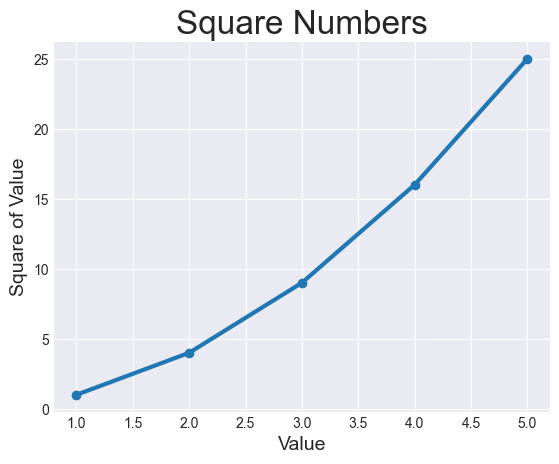
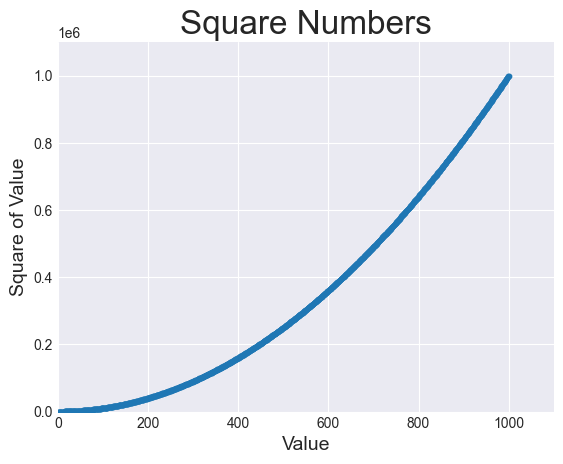
adjusting squares_plot

diff --git a/mpl_squares.py b/mpl_squares.py
@@ -1,7 +1,7 @@
 import matplotlib.pyplot as plt
 
-input_values = [1, 2, 3, 4, 5]
-squares = [1, 4, 9, 16, 25]
+input_values = range(1, 1001)
+squares = [x**2 for x in input_values]
 
 # The plt.style.use() method allows me to change the background color to the chart
 plt.style.use('seaborn-v0_8-darkgrid')
@@ -13,15 +13,14 @@ The variable ax represents a single plot in the figure and is the variable i'll 
 fig, ax = plt.subplots()
 
 # The scatter() method allows me to plot a series of points passing first the values of xlabel then ylabel
-ax.scatter(input_values, squares)
-
-# The plot() method will try to plot the data it's given in a meaningfull way.
-ax.plot(input_values, squares, linewidth=3)
+ax.scatter(input_values, squares, s=10)
 
 #Set chart title and label axes
 ax.set_title("Square Numbers", fontsize=24)
 ax.set_xlabel("Value", fontsize=14)
 ax.set_ylabel("Square of Value", fontsize=14)
+
+ax.axis([0, 1100, 0, 1100000])
 
 # Set the size of tick labels
 ax.tick_params(axis="both", labelsize=10)
